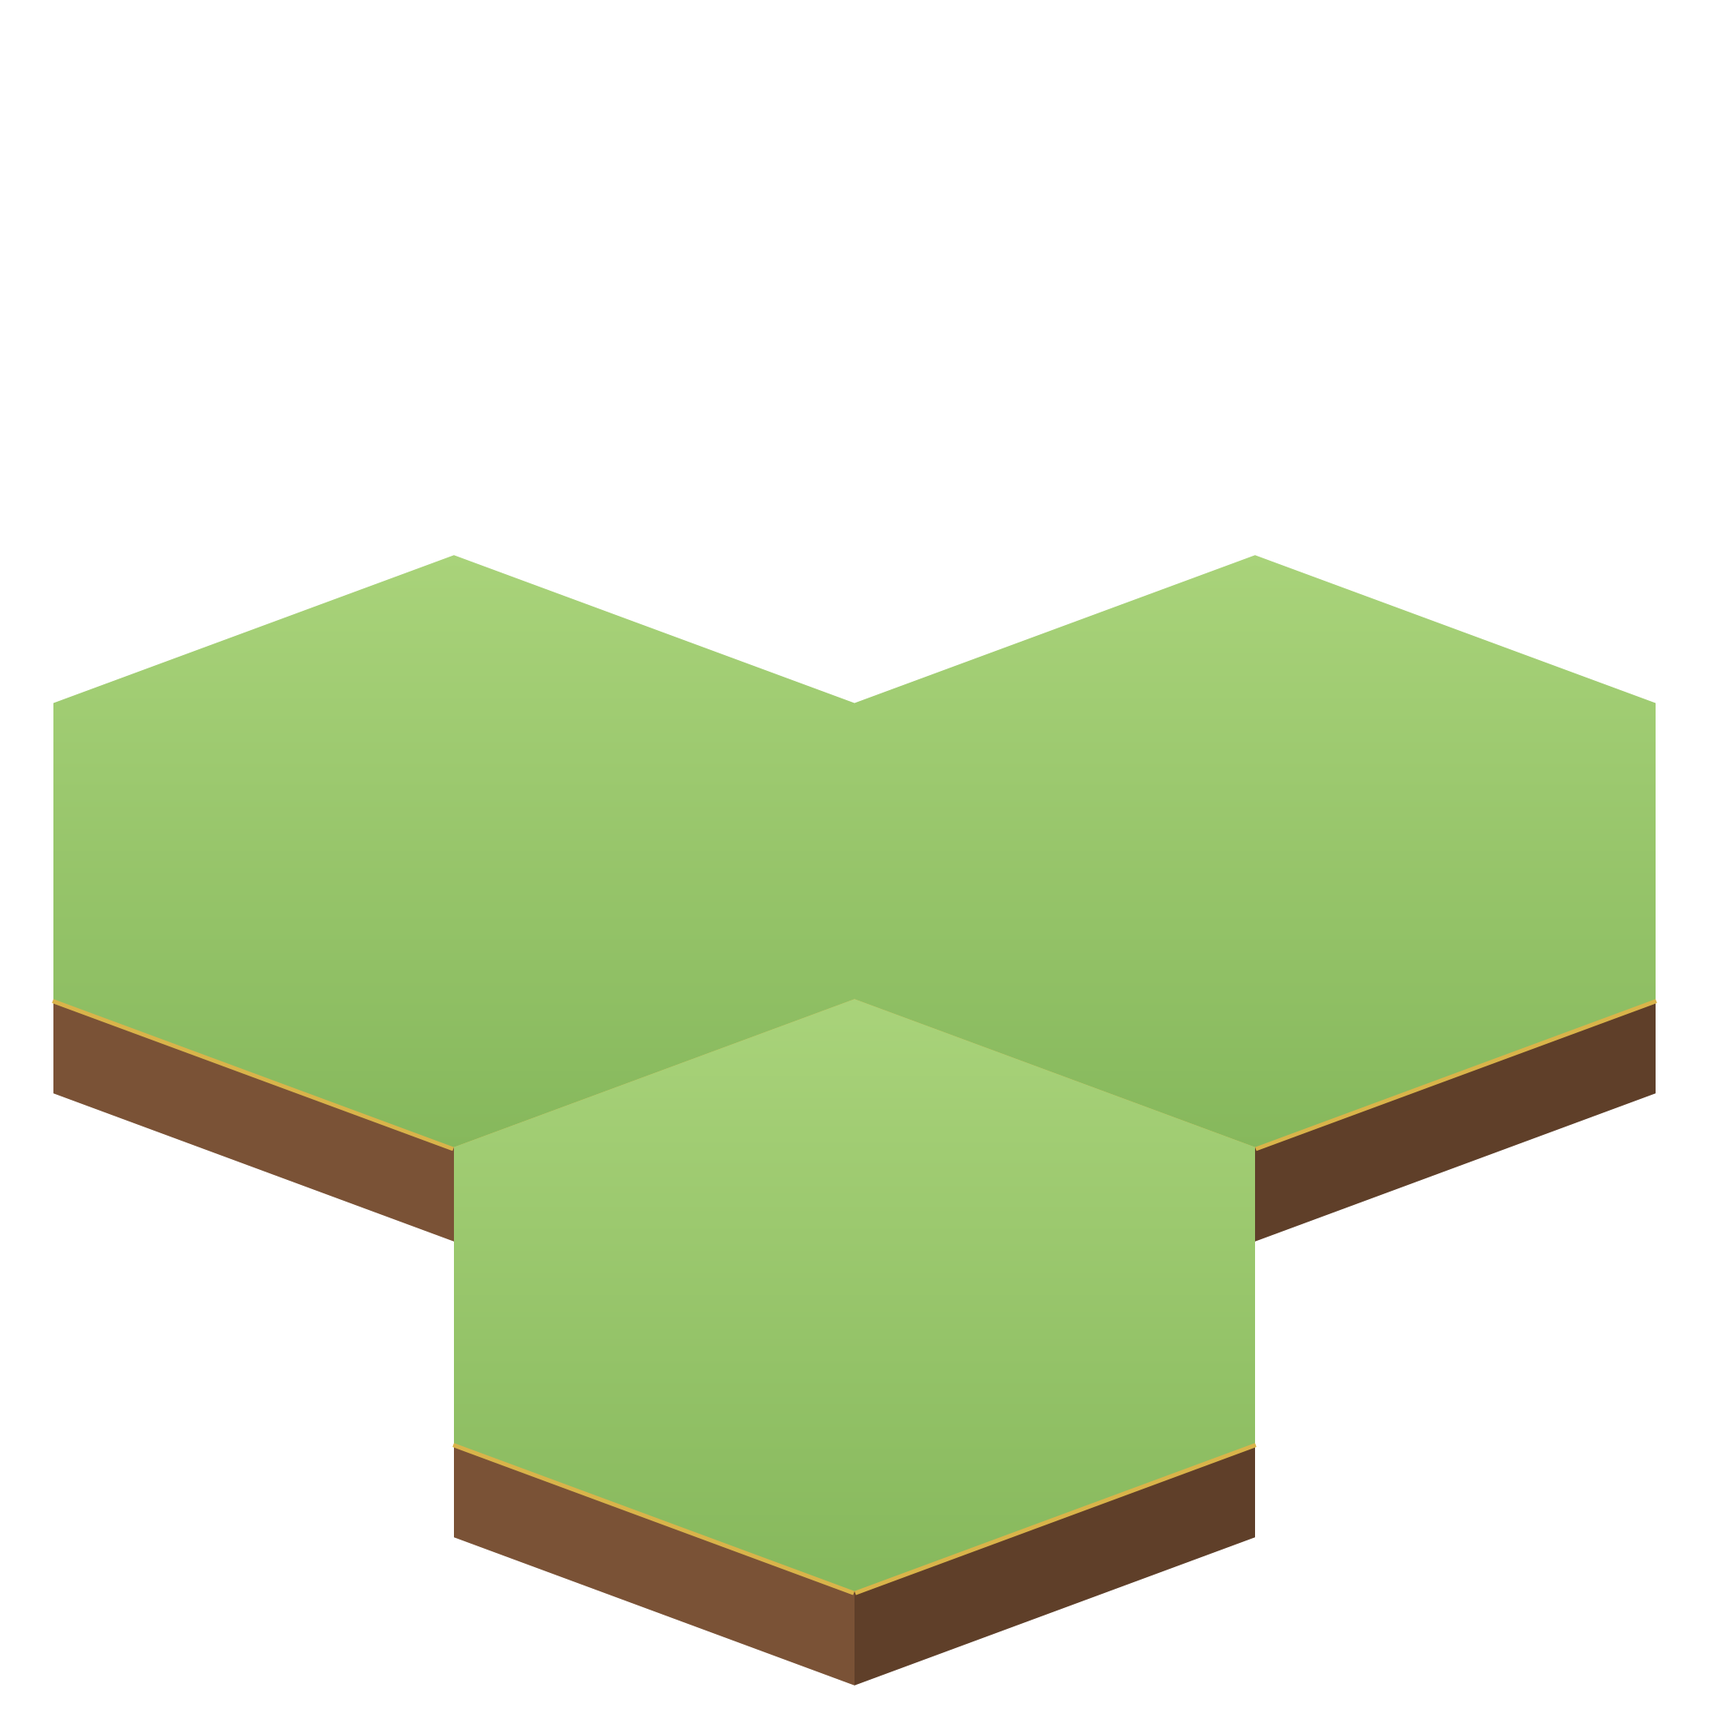
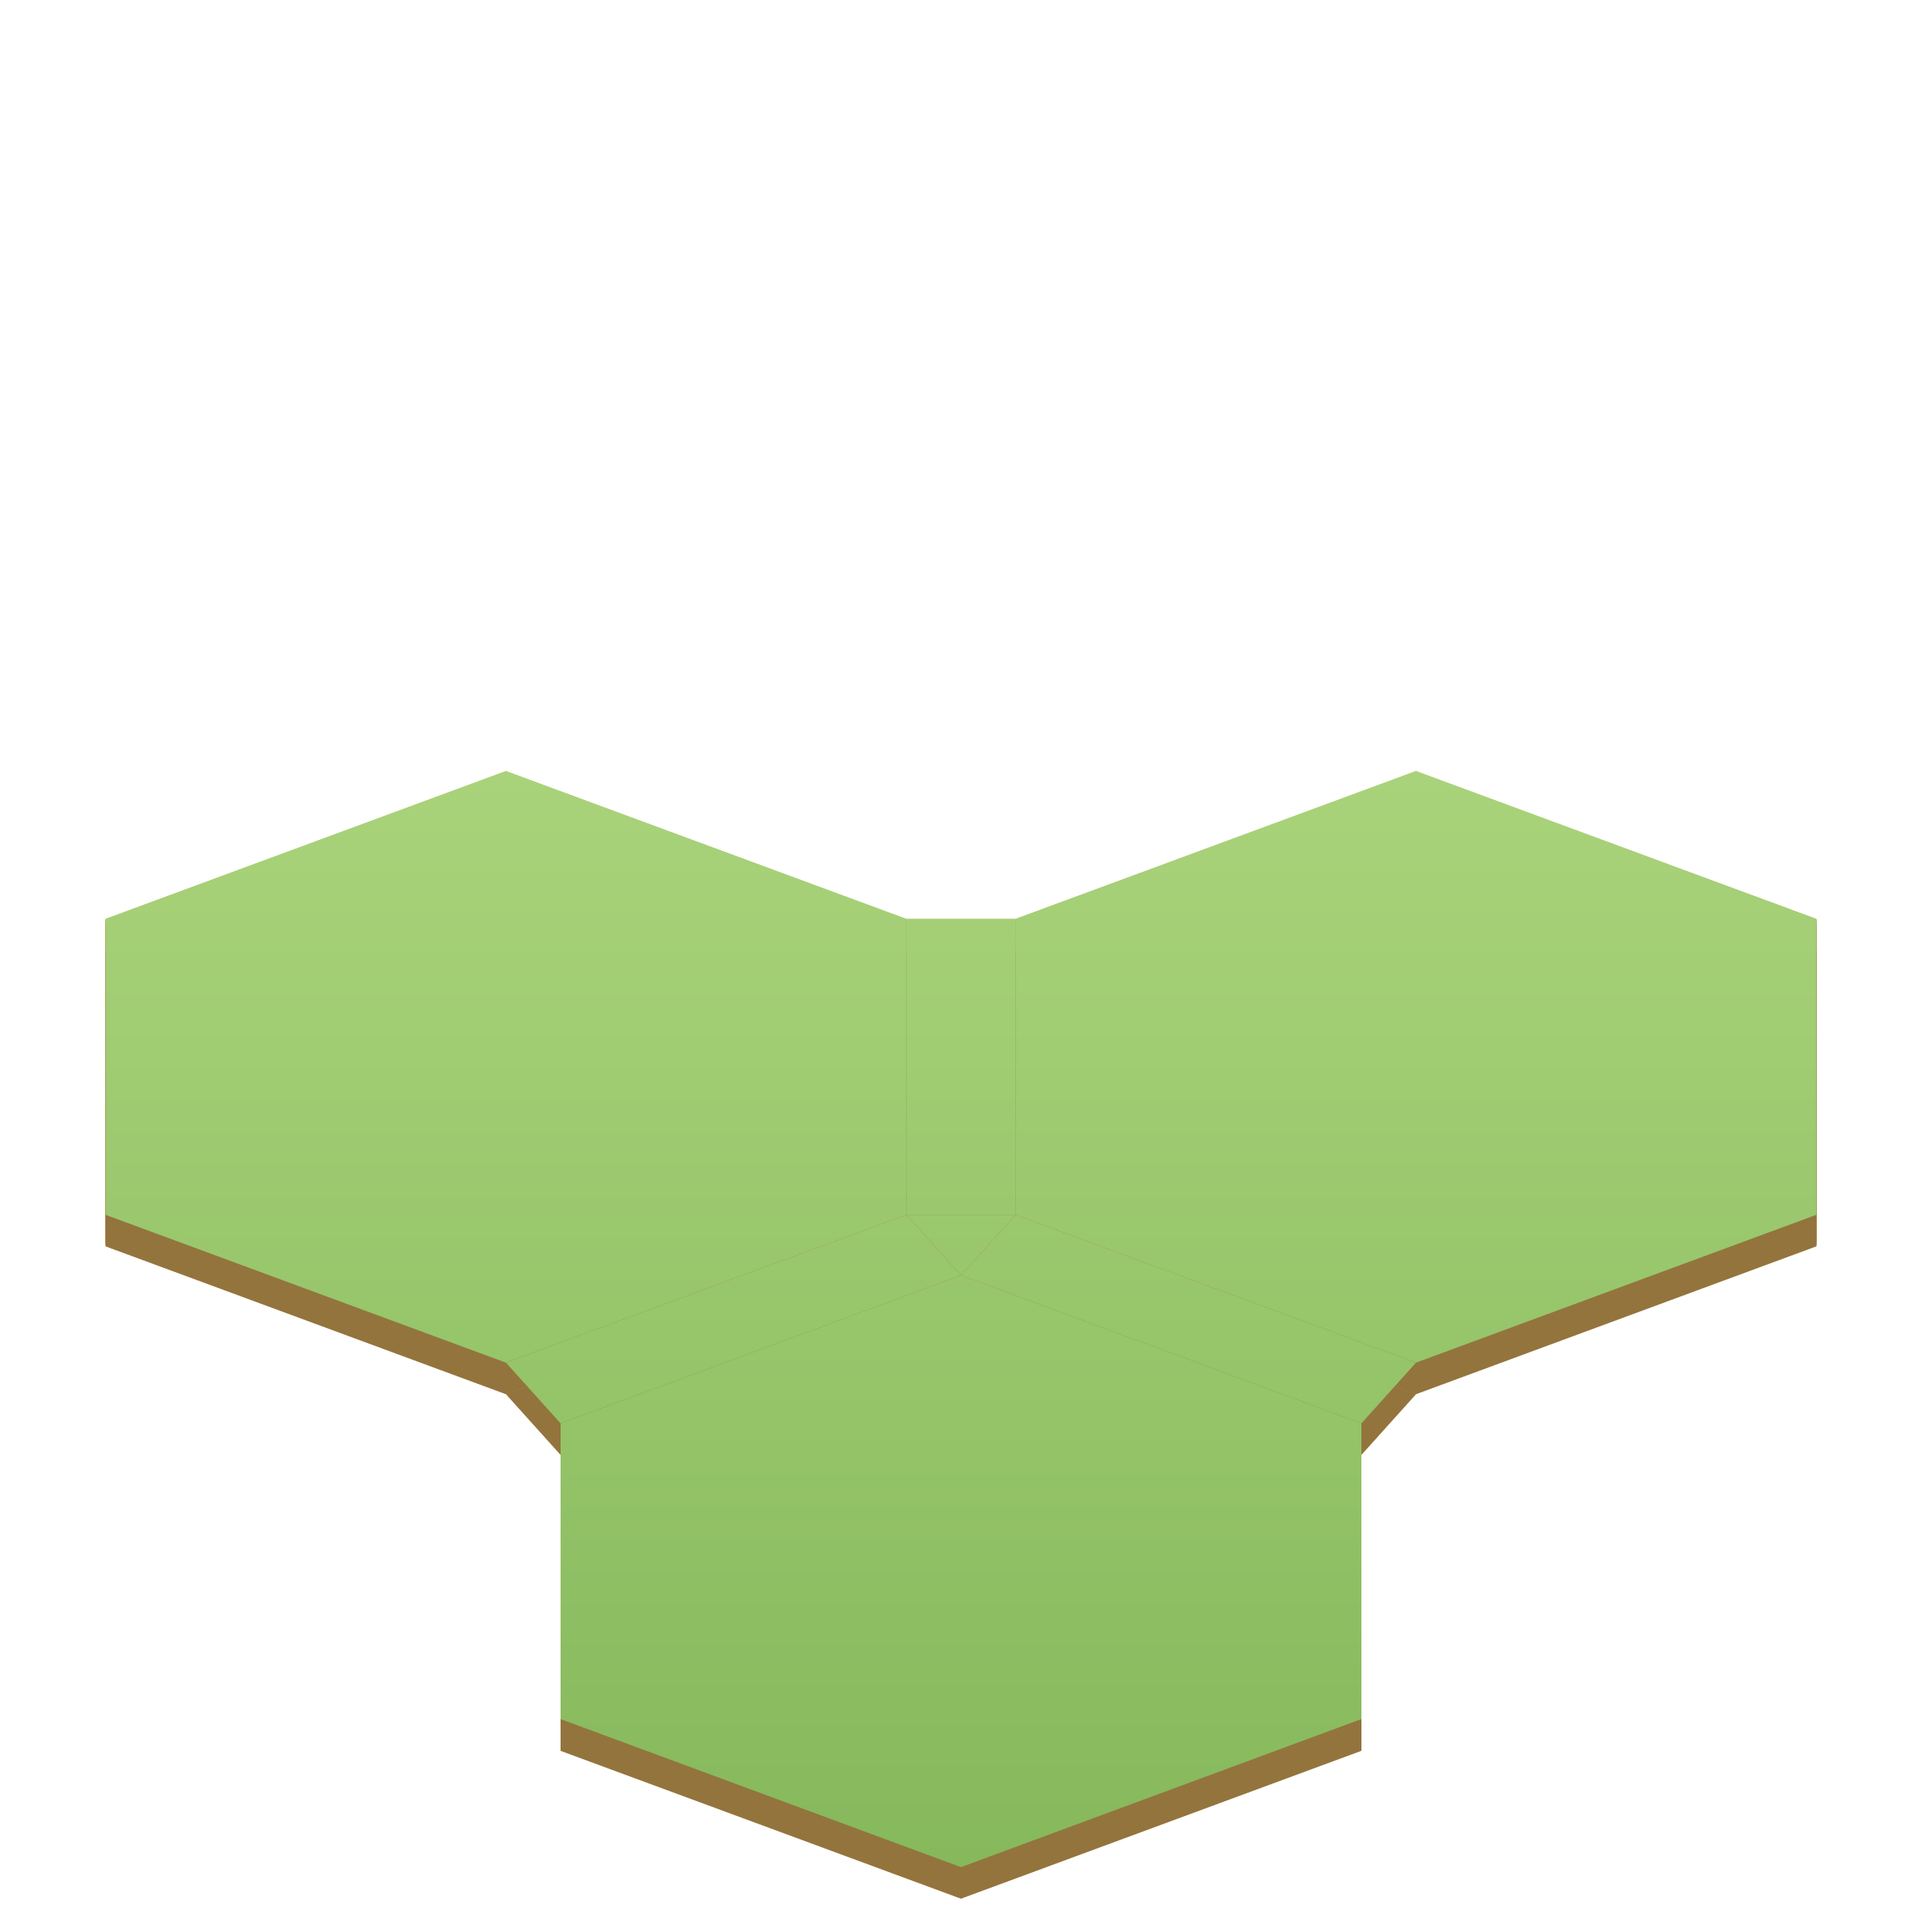
Paragon art plaza over the lanes between its three plots
Matches the lanes board from the art spec: three full plots at the board's
cell pitch, joined by one raised plaza over the inner lanes, with a kerb on
the outside edges. Canvas grows to 2304 px; brief, templates and tests updated.

Changed region(s): [[0.0312, 0.3125, 0.9688, 1.0]]

diff --git a/src/generated-art.js b/src/generated-art.js
@@ -22,10 +22,12 @@
   }));
   // v0.12 Paragons: optional per-Paragon PNGs in assets/paragons/, loaded only once a Paragon is on the board.
   // Until the art lands a file is missing, and art.js draws a procedural placeholder instead.
-  // Geometry (docs/PARAGON-ART-BRIEF.md, tools/art/paragon-spec.cjs): 2048 x 2048 canvas, three full spec-v2 hexes
-  // (half-width 480). Layout a = one hex behind, two in front; b = two behind, one in front. The anchor is where
-  // the three hexes meet, and the game puts it on the same point of the board.
-  const PARAGON_SPEC = { size: 2048, cx: 1024, halfW: 480, anchorY: { a: 1374.65, b: 1197.3 } };
+  // Geometry (docs/PARAGON-ART-BRIEF.md, tools/art/paragon-spec.cjs): a 2304 x 2304 canvas holding three
+  // tile-spec-v2 plots (top face half-width 480) and a plaza over the lanes between them. Layout a = one plot
+  // behind, two in front; b = two behind, one in front. The anchor is where the three plots' lanes meet, and
+  // the game puts it on that point of the board at the same scale as every tile. A test checks this against
+  // the tool; if ART.BOARD's plot size changes, regenerate the templates and update these numbers.
+  const PARAGON_SPEC = { size: 2304, cx: 1152, halfW: 480, tileRadius: 0.88, anchorY: { a: 1681.95, b: 1480.41 } };
   A.PARAGON_SPEC = PARAGON_SPEC;
   const placeholderParagon = A.drawParagon;
   if (placeholderParagon) {
@@ -44,7 +46,7 @@
     A.paragonLayout = layoutOf;
     // Where the 2048 x 2048 Paragon image goes so its hexes sit on the board's (board hex size u, anchor at x, y).
     A.paragonPlacement = function (x, y, u, layout) {
-      const k = (u * Math.sqrt(3) / 2) / PARAGON_SPEC.halfW;
+      const k = (u * ((A.BOARD && A.BOARD.tileRadius) || PARAGON_SPEC.tileRadius) * Math.sqrt(3) / 2) / PARAGON_SPEC.halfW;
       return { k, side: PARAGON_SPEC.size * k, left: x - PARAGON_SPEC.cx * k, top: y - PARAGON_SPEC.anchorY[layout] * k };
     };
     A.drawParagon = function (g, axis, x, y, u, time, night, spots) {

diff --git a/docs/PARAGON-ART-BRIEF.md b/docs/PARAGON-ART-BRIEF.md
@@ -7,17 +7,18 @@ Follow the general tile spec, `docs/ART-DIRECTION.md` (tile spec v2), for style,
 ## Geometry
 
 - **Files:** `assets/paragons/<type>-a.png` and `<type>-b.png`, where type is power, move, food, water, home, make, waste or wild.
-- **Canvas:** **2048 × 2048 px**, RGBA, fully transparent background.
-- **Hexes:** three **full** spec-v2 hexes (pointy-top, top face half-width 480, half-height 354.7, front side faces 113 px deep), all touching.
-- **Layout a, one hex behind and two in front:** hex centres (1024, 1019.95), (544, 1552), (1504, 1552). Anchor (1024, 1374.65).
-- **Layout b, two hexes behind and one in front:** hex centres (544, 1019.95), (1504, 1019.95), (1024, 1552). Anchor (1024, 1197.3).
-- **Anchor:** the point where the three hexes meet. The game puts it on the same point of the board, at the same scale as every tile, so the painted hexes land exactly on the board's.
-- **Keep region:** nothing left of x = 64, right of x = 1984, above y = 24, or below the slab bottoms.
-- **Ground:** the three top faces reach every outer edge, like every v2 tile. Across the inside edges they merge into one plaza, because the Paragon is one place. Keep the outer edges and the front side faces the same as a v2 tile so it sits in the town's borders and roads like any other building.
+- **Board:** the town is full hex **plots** with **lanes** (little streets) between them, drawn by the board, not the tiles. See `docs/ART-DIRECTION.md` section 1a and issue #2.
+- **Canvas:** **2304 × 2304 px**, RGBA, fully transparent background.
+- **Plots:** three **full** spec-v2 plots (pointy-top, top face half-width 480, half-height 354.7, a gold-stone kerb 37.8 px deep), spaced exactly as on the board, so a lane-width gap runs between them.
+- **Layout a, one plot behind and two in front:** plot centres (1152, 1278.86), (606.55, 1883.5), (1697.45, 1883.5). Anchor (1152, 1681.95).
+- **Layout b, two plots behind and one in front:** plot centres (606.55, 1278.86), (1697.45, 1278.86), (1152, 1883.5). Anchor (1152, 1480.41).
+- **Anchor:** the middle of the lane junction between the three plots. The game puts it on the same point of the board, at the same scale as every tile, so the painted plots land exactly on the board's.
+- **Keep region:** nothing left of x = 96, right of x = 2208, above y = 24, or below the kerb bottoms.
+- **Ground:** the Paragon is one place, so its ground is one raised **plaza**: the three plot tops plus the three lane pieces between them and the little junction in the middle, all at plot height. Paint the plaza as one paved, planted square; nothing of the lanes shows inside it. The outside edges stay plot edges with the kerb down to the board's lanes, like every v2 tile. Paint no roads around the outside: the board's lanes are already there. Paths on the plaza may run out to its edge to meet a lane.
 - Templates, made by `node tools/art/paragon-templates.cjs` from `tools/art/paragon-spec.cjs`, are in `assets/paragons/_template/`:
-  - `guide-a.png`, `guide-b.png`: exact outlines, allowed columns, headroom and the anchor. For looking at.
-  - `base-a.png`, `base-b.png`: a plain slab at the exact geometry, to use as the reference or edit image.
-  - `mask-a.png`, `mask-b.png`: edit masks that keep the side faces and let the model paint the top faces and the sky.
+  - `guide-a.png`, `guide-b.png`: the plaza outline, the three plots it joins (dashed, where the lanes would run), allowed columns, headroom and the anchor. For looking at.
+  - `base-a.png`, `base-b.png`: a plain plaza at the exact geometry, to use as the reference or edit image.
+  - `mask-a.png`, `mask-b.png`: edit masks that keep the kerb and let the model paint the plaza and the sky.
 - Paint the landmark once per type, then fit it to both layouts. The building is the same; only the ground under it changes.
 
 ## Style
@@ -45,7 +46,7 @@ Every Paragon wears a small **gold crown with three jewels (leaf green, sky cyan
 
 ## Prompt starting point
 
-> Use case: stylized-concept. One transparent 2048 × 2048 PNG of a single detailed miniature landmark for a cozy isometric town game, edited onto the attached base image so it stands on its three-hex ground exactly; keep the side faces. The landmark rises from where the three hexes meet; nothing above 24 px from the top. Warm detailed painterly 3D game miniature aesthetic matching the attached reference atlases, lovely crisp material detail, cheerful cozy spirit, lit upper-left. Each landmark blends three styles into ONE structure: solarpunk (warm wood, greenery, flowers), technofuturist (white ceramic, gold trim, cyan glass) and gentle magic (purple roofs, amethyst crystals, gold stars, lanterns). Each wears a small gold crown with green, cyan and amethyst jewels at its top. Transparent background outside the art: zero alpha, no backdrop, no haze or glow outside the silhouette, no shadow cloud, no checkerboard. No labels or text. [One of the eight descriptions above.]
+> Use case: stylized-concept. One transparent 2304 × 2304 PNG of a single detailed miniature landmark for a cozy isometric town game, edited onto the attached base image so it stands on its three-plot plaza exactly; keep the kerb, and paint the plaza as one paved, planted square with no roads around its outside edges. The landmark rises from the middle of the plaza; nothing above 24 px from the top. Warm detailed painterly 3D game miniature aesthetic matching the attached reference atlases, lovely crisp material detail, cheerful cozy spirit, lit upper-left. Each landmark blends three styles into ONE structure: solarpunk (warm wood, greenery, flowers), technofuturist (white ceramic, gold trim, cyan glass) and gentle magic (purple roofs, amethyst crystals, gold stars, lanterns). Each wears a small gold crown with green, cyan and amethyst jewels at its top. Transparent background outside the art: zero alpha, no backdrop, no haze or glow outside the silhouette, no shadow cloud, no checkerboard. No labels or text. [One of the eight descriptions above.]
 
 Attach `base-a.png` (or `base-b.png`) and its mask as the edit inputs, and the Nature, Future and Magic building art as style references.
 

diff --git a/docs/VERIFICATION-v0.12.0.md b/docs/VERIFICATION-v0.12.0.md
@@ -23,7 +23,7 @@ New interface tests (`ui-v12`): tapping a finished row opens the learn picker wi
 
 ## Art path
 
-Paragon art follows tile spec v2: three full hexes, in two layouts (one hex behind and two in front, or the reverse). New tests (`paragon-art-v12`) check that the renderer and `tools/art/paragon-spec.cjs` agree, that each layout's painted hex centres land on the board's hex centres to within half a pixel at the board's own scale, and that a missing image falls back to the placeholder. The two guide templates were also dropped in as stand-ins and rendered on the board, one Paragon per layout; their outlines sat exactly on the board hexes. The stand-ins were removed; no Paragon art ships in this version.
+Paragon art follows tile spec v2 with lanes (`docs/ART-DIRECTION.md` section 1a): three full plots spaced as on the board, joined into one raised plaza that covers the lanes between them, in two layouts (one plot behind and two in front, or the reverse). New tests (`paragon-art-v12`) check that the renderer and `tools/art/paragon-spec.cjs` agree, that each layout's painted plot centres land on the board's hex centres to within half a pixel and at the plot size (board unit × 0.88), and that a missing image falls back to the placeholder. The two guide templates were also dropped in as stand-ins and rendered on the board, one Paragon per layout; their plot outlines sat inside the board hexes as expected. The stand-ins were removed; no Paragon art ships in this version.
 
 ## Not checked
 

diff --git a/README.md b/README.md
@@ -10,7 +10,7 @@ Jay's request, inspired by Bloons TD 6: each track can make **one Paragon**, a l
 - **Merge a triangle.** A Nature, a Future and a Magic building of the same kind, all three touching each other, pulse gold. A prompt offers "Merge into a Paragon!" (or tap one of them later). One Paragon per track.
 - **What it does.** +25 sunbeams when it forms, and anything built touching it earns double sunbeams. It keeps its three hexes, so neighbours and groups work as before.
 - **The eight:** The Everlight, Anywhere Station, The Everfeast Tree, The Moonspring, The Skyhearth, The Wonderworks, The Phoenix Ring and The Wildheart. Tap one to read about it in the field guide.
-- **Art.** A procedural placeholder draws the three buildings around a crowned spire until the Paragon art arrives in `assets/paragons/` (two layouts per Paragon, on full hexes). See `docs/PARAGON-ART-BRIEF.md`. `index.html?mode=cozy&qa=paragon` opens a demo town (in a separate QA save) for checking it.
+- **Art.** A procedural placeholder draws the three buildings around a crowned spire until the Paragon art arrives in `assets/paragons/` (two layouts per Paragon: three full plots joined by one plaza over the lanes between them). See `docs/PARAGON-ART-BRIEF.md`. `index.html?mode=cozy&qa=paragon` opens a demo town (in a separate QA save) for checking it.
 - **Saves.** v0.11 towns load unchanged. A town that never learns a second future plays exactly as before.
 
 Design notes and tuning: `docs/PARAGONS.md`.
